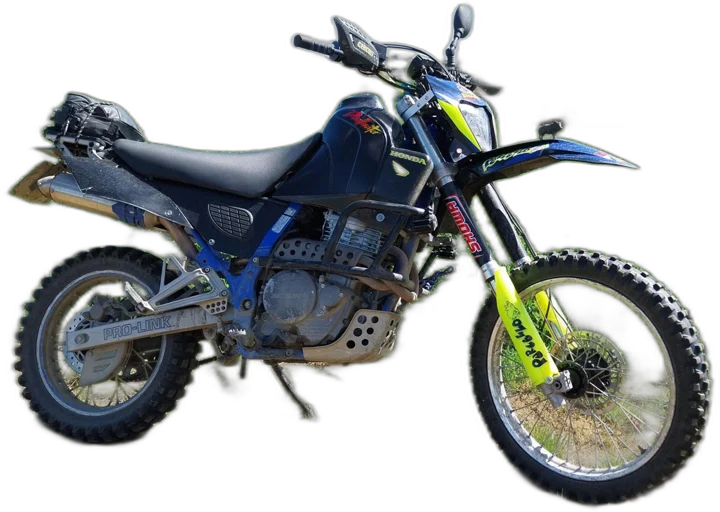
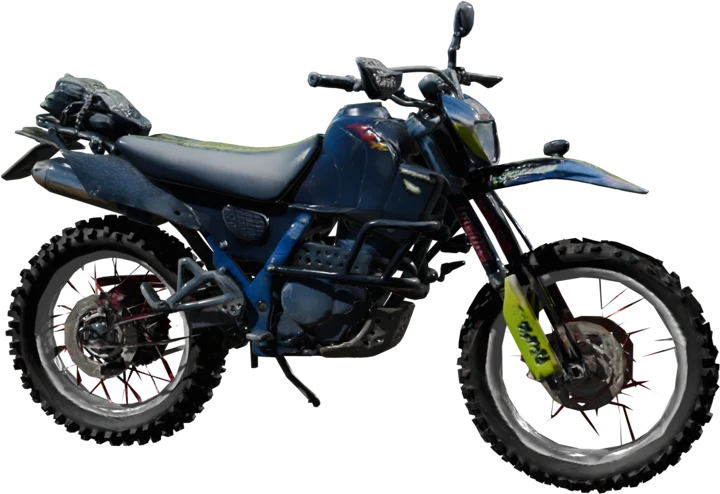
v174: scheda della Domi di Purcello dal modello 3D, scelta B del Gabbah (niente erba nella ruota)
Claude-Session: https://claude.ai/code/session_01NjZ5nBkwQLXqzaf4ei9CTY

diff --git a/game.js b/game.js
@@ -3205,7 +3205,7 @@ function renderShop(back, tab = shopTab) {
   const bikeCard = b => {
     const owned = P.ownsBike(b.id), inUse = cur.id === b.id, locked = lvlNow < b.level, can = owned || (!locked && P.profile.beers >= b.price);
     const label = inUse ? 'IN SELLA' : owned ? 'USA' : b.shadow && !owned ? '🔒 MEDAGLIA SU ICE' : b.analk && !owned ? '🔒 MEDAGLIA AL RANCH' : locked ? '🔒 LIV ' + b.level : b.price + ' 🍺';
-    return `<div class="upg bikecard ${inUse ? 'max' : ''} ${b.boanal ? 'boanal' : ''}"><span class="ui bimg"><img src="img/bike-${b.id}.webp?t=1" alt="${b.name}" loading="lazy"></span>
+    return `<div class="upg bikecard ${inUse ? 'max' : ''} ${b.boanal ? 'boanal' : ''}"><span class="ui bimg"><img src="img/bike-${b.id}.webp?t=${b.id === 'purcello' ? 2 : 1}" alt="${b.name}" loading="lazy"></span>
       <span class="ut"><b>${b.name}</b><small>${b.desc}</small>${statBars(b.stats, b.ideal)}</span>
       <button type="button" class="buy" data-bike="${b.id}" ${inUse || !can ? 'disabled' : ''}>${label}</button></div>`;
   };
@@ -3430,7 +3430,7 @@ function showUnlock(id) {
   try { localStorage.setItem('edt-unlock-seen:' + id, '1'); } catch {}
   const el = document.createElement('div'); el.className = 'podium chestpop newspop'; el.id = 'unlockpop';
   el.innerHTML = `<div class="podbox chestbox"><small>🔓 ${UNLOCK_BIKES[id].toUpperCase()}</small><b class="podtitle">MOTO SBLOCCATA!</b>
-    <img src="img/bike-${b.id}.webp?t=1" alt="${b.name}" style="display:block;width:min(260px,70%);margin:6px auto 4px">
+    <img src="img/bike-${b.id}.webp?t=${b.id === 'purcello' ? 2 : 1}" alt="${b.name}" style="display:block;width:min(260px,70%);margin:6px auto 4px">
     <b style="display:block;font:26px/1.1 var(--display);color:var(--y);margin-bottom:6px">${b.name.toUpperCase()}</b><p>${b.desc}</p>
     <button class="primary" type="button" id="unlockgo"><span>${P.currentBike().id === id ? 'OK' : 'USALA SUBITO'}</span></button>${P.currentBike().id === id ? '' : '<button class="secondary" type="button" id="unlockclose">DOPO, È IN GARAGE</button>'}</div>`;
   (document.fullscreenElement || document.webkitFullscreenElement || document.body).appendChild(el); requestAnimationFrame(() => el.classList.add('open'));
@@ -3879,7 +3879,7 @@ function groupListHTML(list, me = '', m = -1) {
   if (!list?.length) return '<li class="empty">Ancora nessuno qui: il primo posto è libero.</li>';
   const mine = C.cleanNick(me).toLowerCase();
   const gh = ghostable(m);
-  return list.map((e, i) => { const canG = gh && e.g && e.g.length > 8 && !(mine && e.n.toLowerCase() === mine); return `<li class="${i < 3 ? 'top' + (i + 1) : ''} ${mine && e.n.toLowerCase() === mine ? 'me' : ''}${canG ? ' ghostable' : ''}"${canG ? ` data-ghostn="${e.n}" data-ghostm="${m}" title="Corri contro il suo fantasma"` : ''}><span class="pos">${i + 1}</span>${entryAv(e, 'tiny')}<span class="who">${e.n}${crownOf(e.n)}${canG ? '<em class="gsfida">👻 SFIDA</em>' : ''}${e.r && e.r !== e.n ? `<small>${e.r}</small>` : ''}${e.m && P.BIKES.some(x => x.id === e.m) ? `<img class="bkm" src="img/bike-${e.m}.webp?t=1" alt="" title="${P.BIKES.find(x => x.id === e.m).name}" loading="lazy">` : ''}${e.b != null ? `<small class="bikelv" title="livello moto${e.b >= 75 ? ' · livelli Leggenda' : ''}">${e.b >= 120 ? '👑' : e.b >= 100 ? '💎' : e.b >= 76 ? '🏅' : '🔧'}${e.b}</small>` : ''}</span><span class="when">${m === C.ICE_MODE && e.t ? '🌀 ' + C.fmtMetres(e.t) : m === C.JUMP_MODE && e.s % 10 === 7 && e.w && e.t ? '📏 ' + C.fmtJump(e.t) : e.bt ? '⏱ ' + C.fmtTime(e.bt) : e.w && e.t ? '⏱ ' + C.fmtTime(e.t) : ''}</span><b>${e.s.toLocaleString('it-IT')}</b></li>`; }).join('');
+  return list.map((e, i) => { const canG = gh && e.g && e.g.length > 8 && !(mine && e.n.toLowerCase() === mine); return `<li class="${i < 3 ? 'top' + (i + 1) : ''} ${mine && e.n.toLowerCase() === mine ? 'me' : ''}${canG ? ' ghostable' : ''}"${canG ? ` data-ghostn="${e.n}" data-ghostm="${m}" title="Corri contro il suo fantasma"` : ''}><span class="pos">${i + 1}</span>${entryAv(e, 'tiny')}<span class="who">${e.n}${crownOf(e.n)}${canG ? '<em class="gsfida">👻 SFIDA</em>' : ''}${e.r && e.r !== e.n ? `<small>${e.r}</small>` : ''}${e.m && P.BIKES.some(x => x.id === e.m) ? `<img class="bkm" src="img/bike-${e.m}.webp?t=${e.m === 'purcello' ? 2 : 1}" alt="" title="${P.BIKES.find(x => x.id === e.m).name}" loading="lazy">` : ''}${e.b != null ? `<small class="bikelv" title="livello moto${e.b >= 75 ? ' · livelli Leggenda' : ''}">${e.b >= 120 ? '👑' : e.b >= 100 ? '💎' : e.b >= 76 ? '🏅' : '🔧'}${e.b}</small>` : ''}</span><span class="when">${m === C.ICE_MODE && e.t ? '🌀 ' + C.fmtMetres(e.t) : m === C.JUMP_MODE && e.s % 10 === 7 && e.w && e.t ? '📏 ' + C.fmtJump(e.t) : e.bt ? '⏱ ' + C.fmtTime(e.bt) : e.w && e.t ? '⏱ ' + C.fmtTime(e.t) : ''}</span><b>${e.s.toLocaleString('it-IT')}</b></li>`; }).join('');
 }
 // v122 · classifica delle cadute
 // v123 · contatore pubblico in home: telefoni che hanno aperto il gioco (dallo script); se lo script è vecchio, i piloti in classifica
@@ -4458,7 +4458,8 @@ function confetti() {
 }
 
 // ---------- Pannello laterale: pilota, garage, classifica ----------
-const GAME_VERSION = 173;   // v173 · Purcello scritto giusto nella scheda della sua moto
+const GAME_VERSION = 174;   // v174 · scheda della Domi di Purcello dal modello 3D (niente erba nella ruota)
+// prima:   // v173 · Purcello scritto giusto nella scheda della sua moto
 // prima:   // v172 · Domi di Purcello in regalo, sabbia vera e visuale dinamica nella guida nuova
 // prima:   // v171 · avversari che aspettano chi inizia, RIPROVA col distacco, nome in alto nei risultati, si conta di nuovo 'gioca'
 // prima:   // v170 · riquadro MOTO SBLOCCATA · v169 · Anal K di Gusta, moto bonus con la medaglia al Gusta Ranch · v168 · Angelo Potter piu ricco, Erika e Giacu, derapate contate · v166 · SWITCH: la gara si corre con la guida nuova in 3D · v167: Ice Scrofy piu' lento e senza turbo, i suoi record ripartono da zero
@@ -4644,7 +4645,7 @@ function renderSide() {
     $('bikestrip').innerHTML = P.BIKES.map(b => { const own = P.ownsBike(b.id), on = b.id === cur;
       const tag = on ? 'IN SELLA' : own ? 'TOCCA PER USARE' : b.shadow ? '🔒 MEDAGLIA SU ICE' : b.analk ? '🔒 MEDAGLIA AL RANCH' : lv < b.level ? '🔒 LIV ' + b.level : b.price + ' 🍺';
       const fit = P.bikeFits(b.id, mode);   // v150 · 🎯 la moto giusta per il percorso scelto
-      return `<button type="button" class="bk ${on ? 'on' : ''} ${own ? 'own' : 'lock'}" data-bike="${b.id}" aria-pressed="${on}">${fit ? '<em class="bkfit">🎯 +10%</em>' : ''}<img src="img/bike-${b.id}.webp?t=1" alt="" loading="lazy"><b>${b.name}</b><small>${tag}</small></button>`; }).join('');
+      return `<button type="button" class="bk ${on ? 'on' : ''} ${own ? 'own' : 'lock'}" data-bike="${b.id}" aria-pressed="${on}">${fit ? '<em class="bkfit">🎯 +10%</em>' : ''}<img src="img/bike-${b.id}.webp?t=${b.id === 'purcello' ? 2 : 1}" alt="" loading="lazy"><b>${b.name}</b><small>${tag}</small></button>`; }).join('');
     $('bikestrip').querySelectorAll('.bk').forEach(el => el.onclick = () => {
       const id = el.dataset.bike;
       if (state === 'playing' || state === 'paused' || state === 'countdown') return;
@@ -4652,7 +4653,7 @@ function renderSide() {
       else if (state === 'ready' || state === 'ended') fromPanel(() => renderShop(renderReady, 'bikes'));
     });
   }
-  if ($('bikephoto')) { const bid = P.currentBike().id; if ($('bikephoto').dataset.bike !== bid) { $('bikephoto').dataset.bike = bid; $('bikephoto').innerHTML = `<img src="img/bike-${bid}.webp?t=1" alt="${P.currentBike().name}"><span>${P.currentBike().icon} ${P.currentBike().name}</span>`; } }
+  if ($('bikephoto')) { const bid = P.currentBike().id; if ($('bikephoto').dataset.bike !== bid) { $('bikephoto').dataset.bike = bid; $('bikephoto').innerHTML = `<img src="img/bike-${bid}.webp?t=${bid === 'purcello' ? 2 : 1}" alt="${P.currentBike().name}"><span>${P.currentBike().icon} ${P.currentBike().name}</span>`; } }
 }
 
 // ---------- v68 · Sfida 1 contro 1 dal vivo ----------

diff --git a/sw.js b/sw.js
@@ -1,5 +1,5 @@
 // EDT Giro Easy · service worker: il gioco funziona anche offline dopo la prima apertura.
-const CACHE = 'giro-easy-012010b3';   // v109.3 · all'installazione solo il necessario: voci dei piloti, foto e sfida dal vivo si salvano quando servono
+const CACHE = 'giro-easy-73c0936b';   // v109.3 · all'installazione solo il necessario: voci dei piloti, foto e sfida dal vivo si salvano quando servono
 const FILES = ['./', './index.html', './style.css', './game.js', './physics.js', './scene3d.js', './progress.js', './audio.js', './icons.js', './mudfx.js', './voci.js', './classifica.js', './push.js', './duel.js', 
   './three.module.min.js', './three.core.min.js', './RoundedBoxGeometry.js', './anton.woff2', './barlow-condensed-latin-600-normal.woff2', './barlow-condensed-latin-700-normal.woff2',
   './barlow-condensed-latin-800-italic.woff2', './edt-logo-small.jpg', './edt-logo.png', './img/edt-shield.webp', './img/ice-scrofy.webp', './img/angelo-suuuka.webp', './img/san-miti.webp', './img/i-want-you.webp', './img/san-braulio.webp', './img/anti-gev.webp', './img/gusta-ranch.webp', './img/track-0.webp', './img/track-1.webp', './img/track-3.webp', './img/track-4.webp', './img/track-5.webp', './img/track-6.webp', './img/track-7.webp', './img/track-8.webp', './img/track-10.webp', './img/track-11.webp', './img/track-12.webp', './icon-v121-192.png', './icon-v121-512.png', './manifest.webmanifest'];

diff --git a/index.html b/index.html
@@ -37,7 +37,7 @@
 <link rel="preload" href="anton.woff2" as="font" type="font/woff2" crossorigin>
 <link rel="stylesheet" href="style.css?v=9e4f32ef">
 <!-- v109.3 · il telefono scarica subito tutti i pezzi del gioco in parallelo, invece che uno dopo l'altro -->
-<link rel="modulepreload" href="game.js?v=a2bda5e8">
+<link rel="modulepreload" href="game.js?v=d8c88f1d">
 <link rel="modulepreload" href="physics.js?v=b9c35116">
 <link rel="modulepreload" href="audio.js?v=3afc3a91">
 <link rel="modulepreload" href="progress.js?v=fde3bc2a">
@@ -194,6 +194,6 @@
     <span>Arriva al rifugio prima del tempo massimo.</span>
   </footer>
 </div>
-<script type="module" src="game.js?v=a2bda5e8"></script>
+<script type="module" src="game.js?v=d8c88f1d"></script>
 </body>
 </html>
